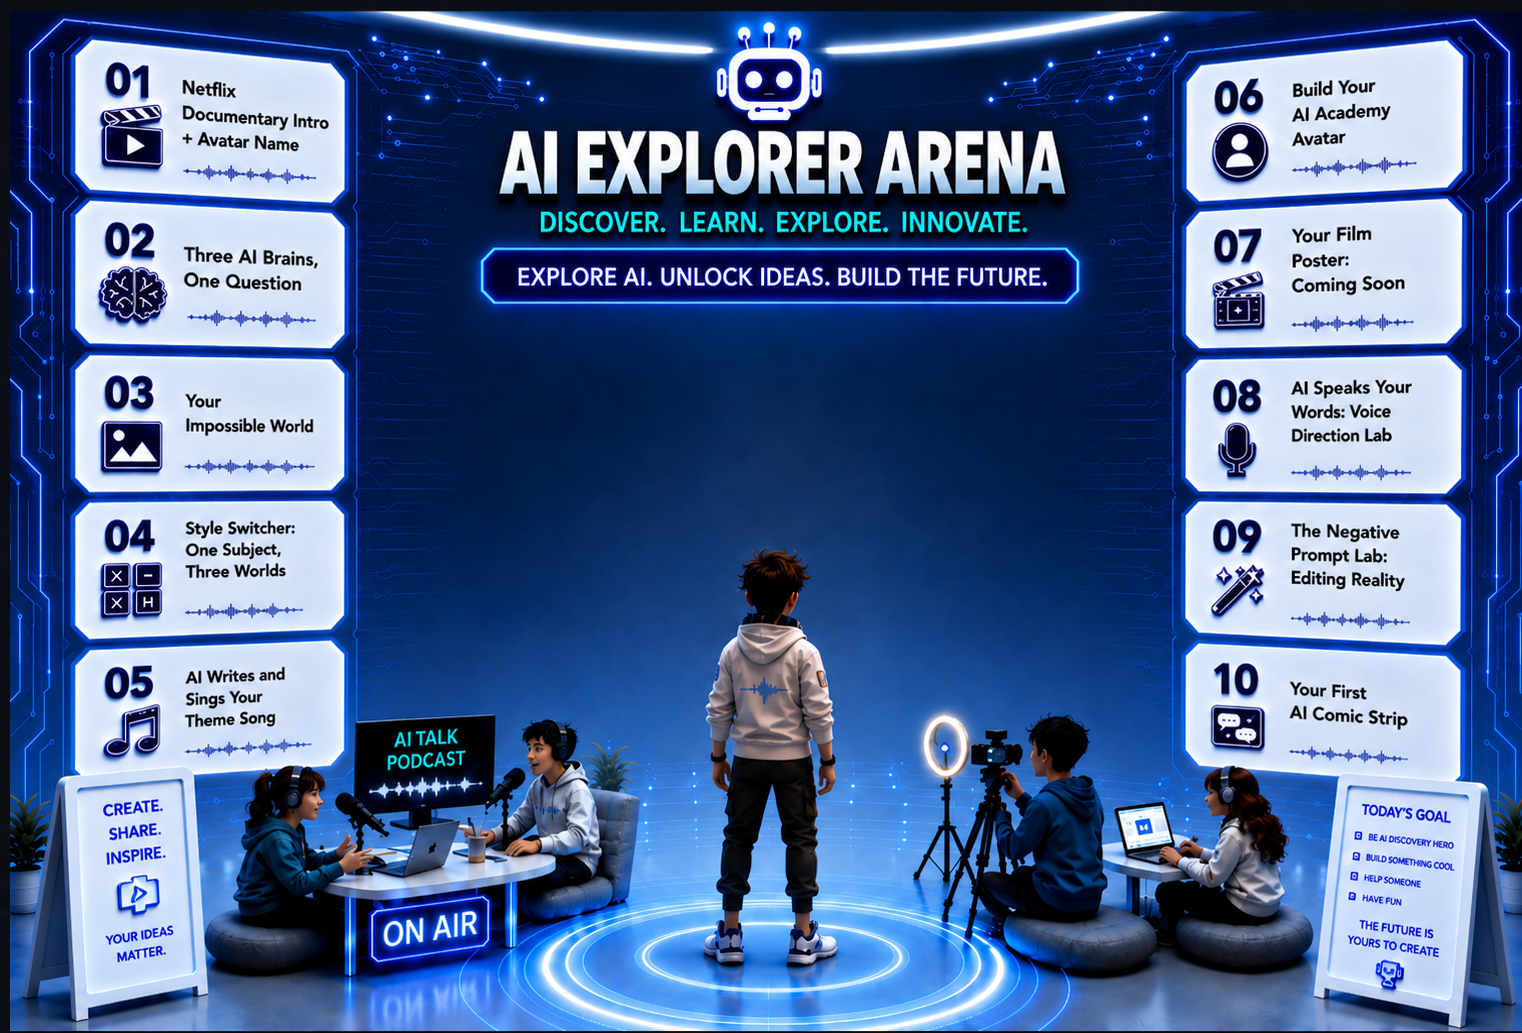
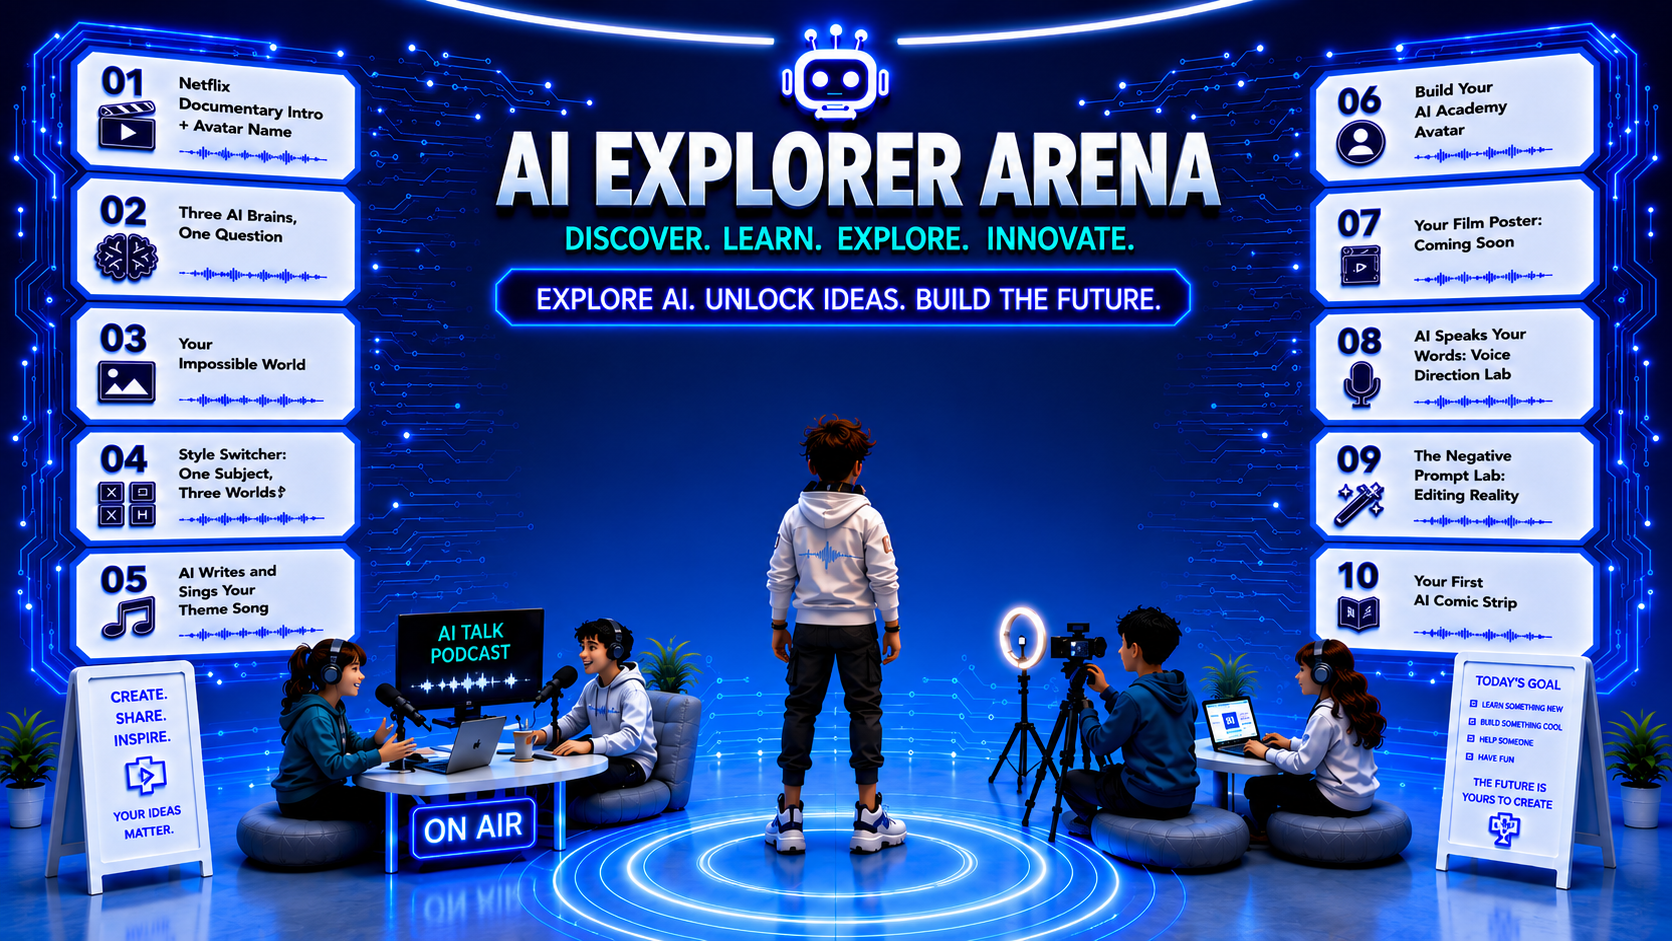
feat: playground, profile, progress UI polish + MessageBubble + arena-1 image update

diff --git a/components/playground/MessageBubble.tsx b/components/playground/MessageBubble.tsx
@@ -77,7 +77,7 @@ function LoadingBubble({ outputType, arenaId }: { outputType?: string; arenaId?:
   const dots = ".".repeat((tick % 3) + 1).padEnd(3, "\u00a0");
 
   return (
-    <div className={cn("w-56 rounded-xl border p-3 space-y-2 backdrop-blur-xl", colors.ring, colors.bg)}>
+    <div className={cn("w-full max-w-[224px] rounded-xl border p-3 space-y-2 backdrop-blur-xl", colors.ring, colors.bg)}>
       <div className="flex items-center gap-2">
         <span className="text-lg animate-bounce" style={{ animationDuration: "1.2s" }}>{meta.icon}</span>
         <div>
@@ -160,7 +160,7 @@ function ActionFooter({ onSave, content, outputType, accent, accentGlow }: {
   const ghostBtn = (active: boolean) => ({
     background:  active ? "rgba(0,255,148,0.15)"  : "rgba(148,168,200,0.10)",
     borderColor: active ? "rgba(0,255,148,0.45)"  : "rgba(148,168,200,0.35)",
-    color:       active ? "#7BFFC4"               : "#94A8C8",
+    color:       active ? "#7BFFC4"               : "#7EC8A0",
   });
 
   return (
@@ -170,8 +170,30 @@ function ActionFooter({ onSave, content, outputType, accent, accentGlow }: {
         <button
           onClick={handleCopy}
           title="Copy to clipboard"
-          className="flex items-center gap-1 px-2.5 py-1.5 rounded-full text-xs font-display font-semibold border transition-all duration-200 active:scale-95 hover:border-[#94A8C8]/70 hover:text-[#C8DBF0]"
-          style={ghostBtn(copied)}
+          className="flex items-center gap-1 px-2.5 py-1.5 rounded-full text-xs font-display font-semibold border transition-all duration-200 active:scale-95"
+          style={copied ? {
+            background:  "rgba(0,255,148,0.15)",
+            borderColor: "rgba(0,255,148,0.45)",
+            color:       "#7BFFC4",
+          } : {
+            background:  "rgba(148,168,200,0.10)",
+            borderColor: "rgba(148,168,200,0.35)",
+            color:       "#94A8C8",
+          }}
+          onMouseEnter={e => {
+            if (copied) return;
+            (e.currentTarget as HTMLElement).style.background  = "#00D4FF";
+            (e.currentTarget as HTMLElement).style.borderColor = "#00D4FF";
+            (e.currentTarget as HTMLElement).style.color       = "#08080F";
+            (e.currentTarget as HTMLElement).style.boxShadow   = "0 0 14px rgba(0,212,255,0.45)";
+          }}
+          onMouseLeave={e => {
+            if (copied) return;
+            (e.currentTarget as HTMLElement).style.background  = "rgba(148,168,200,0.10)";
+            (e.currentTarget as HTMLElement).style.borderColor = "rgba(148,168,200,0.35)";
+            (e.currentTarget as HTMLElement).style.color       = "#94A8C8";
+            (e.currentTarget as HTMLElement).style.boxShadow   = "none";
+          }}
         >
           {copied ? (
             <><span className="text-[10px]">✓</span> Copied!</>
@@ -393,7 +415,7 @@ export function MessageBubble({
       {/* Content column */}
       <div className={cn(
         "flex flex-col",
-        isUser ? "max-w-[50%] sm:max-w-[45%]" : "max-w-[68%] sm:max-w-[58%]"
+        isUser ? "max-w-[72%] sm:max-w-[65%]" : "max-w-[85%] sm:max-w-[78%]"
       )}>
 
         {/* Bubble */}
@@ -441,7 +463,7 @@ export function MessageBubble({
             <div className="rounded-2xl overflow-hidden border border-white/[0.09]"
               style={{ boxShadow: `0 0 32px ${arenaAccentGlow}` }}>
               <img src={message.content.trim()} alt="Generated image"
-                className="w-full max-w-[220px] object-cover rounded-xl"/>
+                className="w-full max-w-[300px] object-cover rounded-xl"/>
             </div>
           )}
 

diff --git a/app/dashboard/playground/page.tsx b/app/dashboard/playground/page.tsx
@@ -293,7 +293,7 @@ function PlaygroundInner() {
 
   // Loading state
   if (!profile) return (
-    <div className="flex flex-col items-center justify-center gap-4" style={{ height: "100vh", background: "linear-gradient(145deg, #F3F0FF 0%, #EDE9FE 35%, #F8F6FF 65%, #EEF2FF 100%)" }}>
+    <div className="flex flex-col items-center justify-center gap-4" style={{ height: "100dvh", background: "linear-gradient(145deg, #F3F0FF 0%, #EDE9FE 35%, #F8F6FF 65%, #EEF2FF 100%)" }}>
       <div className="flex gap-2">
         {[0,1,2].map(i => (
           <div key={i} className="dot w-3 h-3 rounded-full" style={{ background: ARENA_ACCENT, boxShadow: `0 0 12px ${ARENA_ACCENT_GLOW}` }}/>
@@ -309,7 +309,7 @@ function PlaygroundInner() {
   const sourceArenaId = backArenaId ?? profile.active_arena ?? 1;
 
   return (
-    <div className="relative w-full overflow-hidden" style={{ height: "100vh" }}>
+    <div className="relative w-full overflow-hidden" style={{ height: "100dvh" }}>
 
       {/* ── Back to Arena button ── */}
       <button

diff --git a/app/dashboard/profile/page.tsx b/app/dashboard/profile/page.tsx
@@ -120,7 +120,7 @@ function OnboardingFlow() {
   };
 
   return (
-    <div className="studio-bg min-h-full flex items-center justify-center p-8 text-white">
+    <div className="studio-bg min-h-full overflow-y-auto flex items-center justify-center p-6 sm:p-8 text-white">
       <div className="w-full max-w-lg">
         <div className="flex gap-2 justify-center mb-8">
           {[0,1].map(i => (
@@ -823,7 +823,7 @@ export default function ProfilePage() {
   }, []);
 
   if (loading) return (
-    <div className="studio-bg flex items-center justify-center" style={{ height: "100vh" }}>
+    <div className="studio-bg flex items-center justify-center" style={{ height: "100dvh" }}>
       <div className="flex gap-2">
         {[0,1,2].map(i => (
           <div key={i} className="dot w-3 h-3 rounded-full bg-[#C8FF00] shadow-[0_0_12px_rgba(200,255,0,0.45)]"/>

diff --git a/app/dashboard/progress/page.tsx b/app/dashboard/progress/page.tsx
@@ -320,8 +320,10 @@ function CreationPreview({ creation }: { creation: Creation }) {
     try {
       const data = JSON.parse(content) as SlideData;
       if (data?.sections) return (
-        <div className="flex-1 w-full overflow-hidden scale-[0.82] origin-top-left" style={{ width: "122%" }}>
-          <SlideCarousel data={data}/>
+        <div className="flex-1 w-full overflow-hidden" style={{ position: "relative", minHeight: 0 }}>
+          <div className="origin-top-left" style={{ width: "122%", transform: "scale(0.82)" }}>
+            <SlideCarousel data={data}/>
+          </div>
         </div>
       );
     } catch { /* fall through */ }
